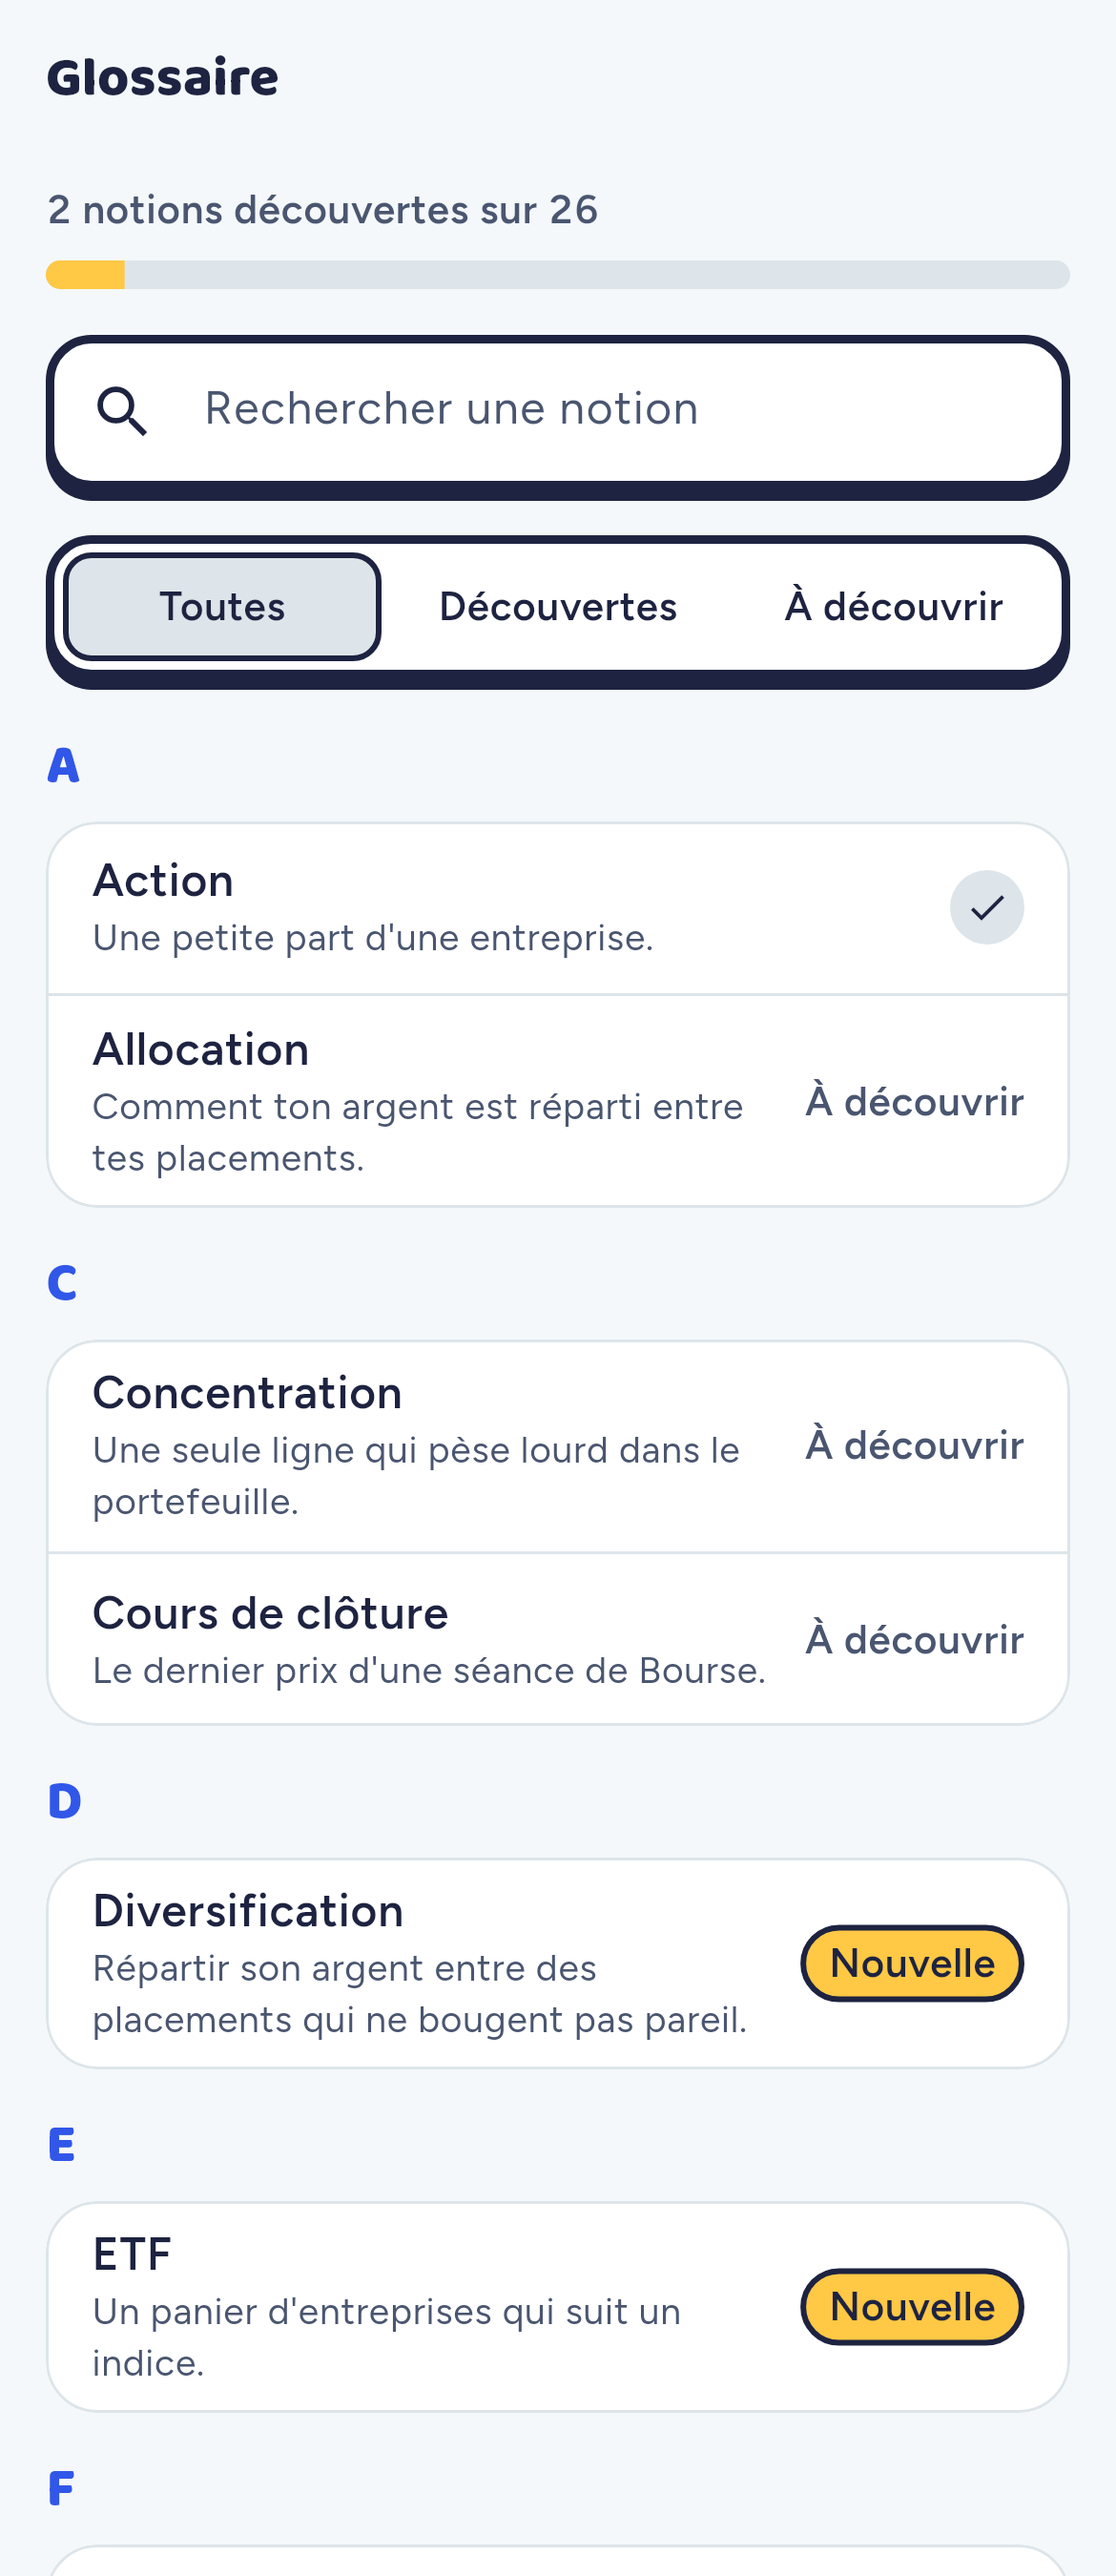
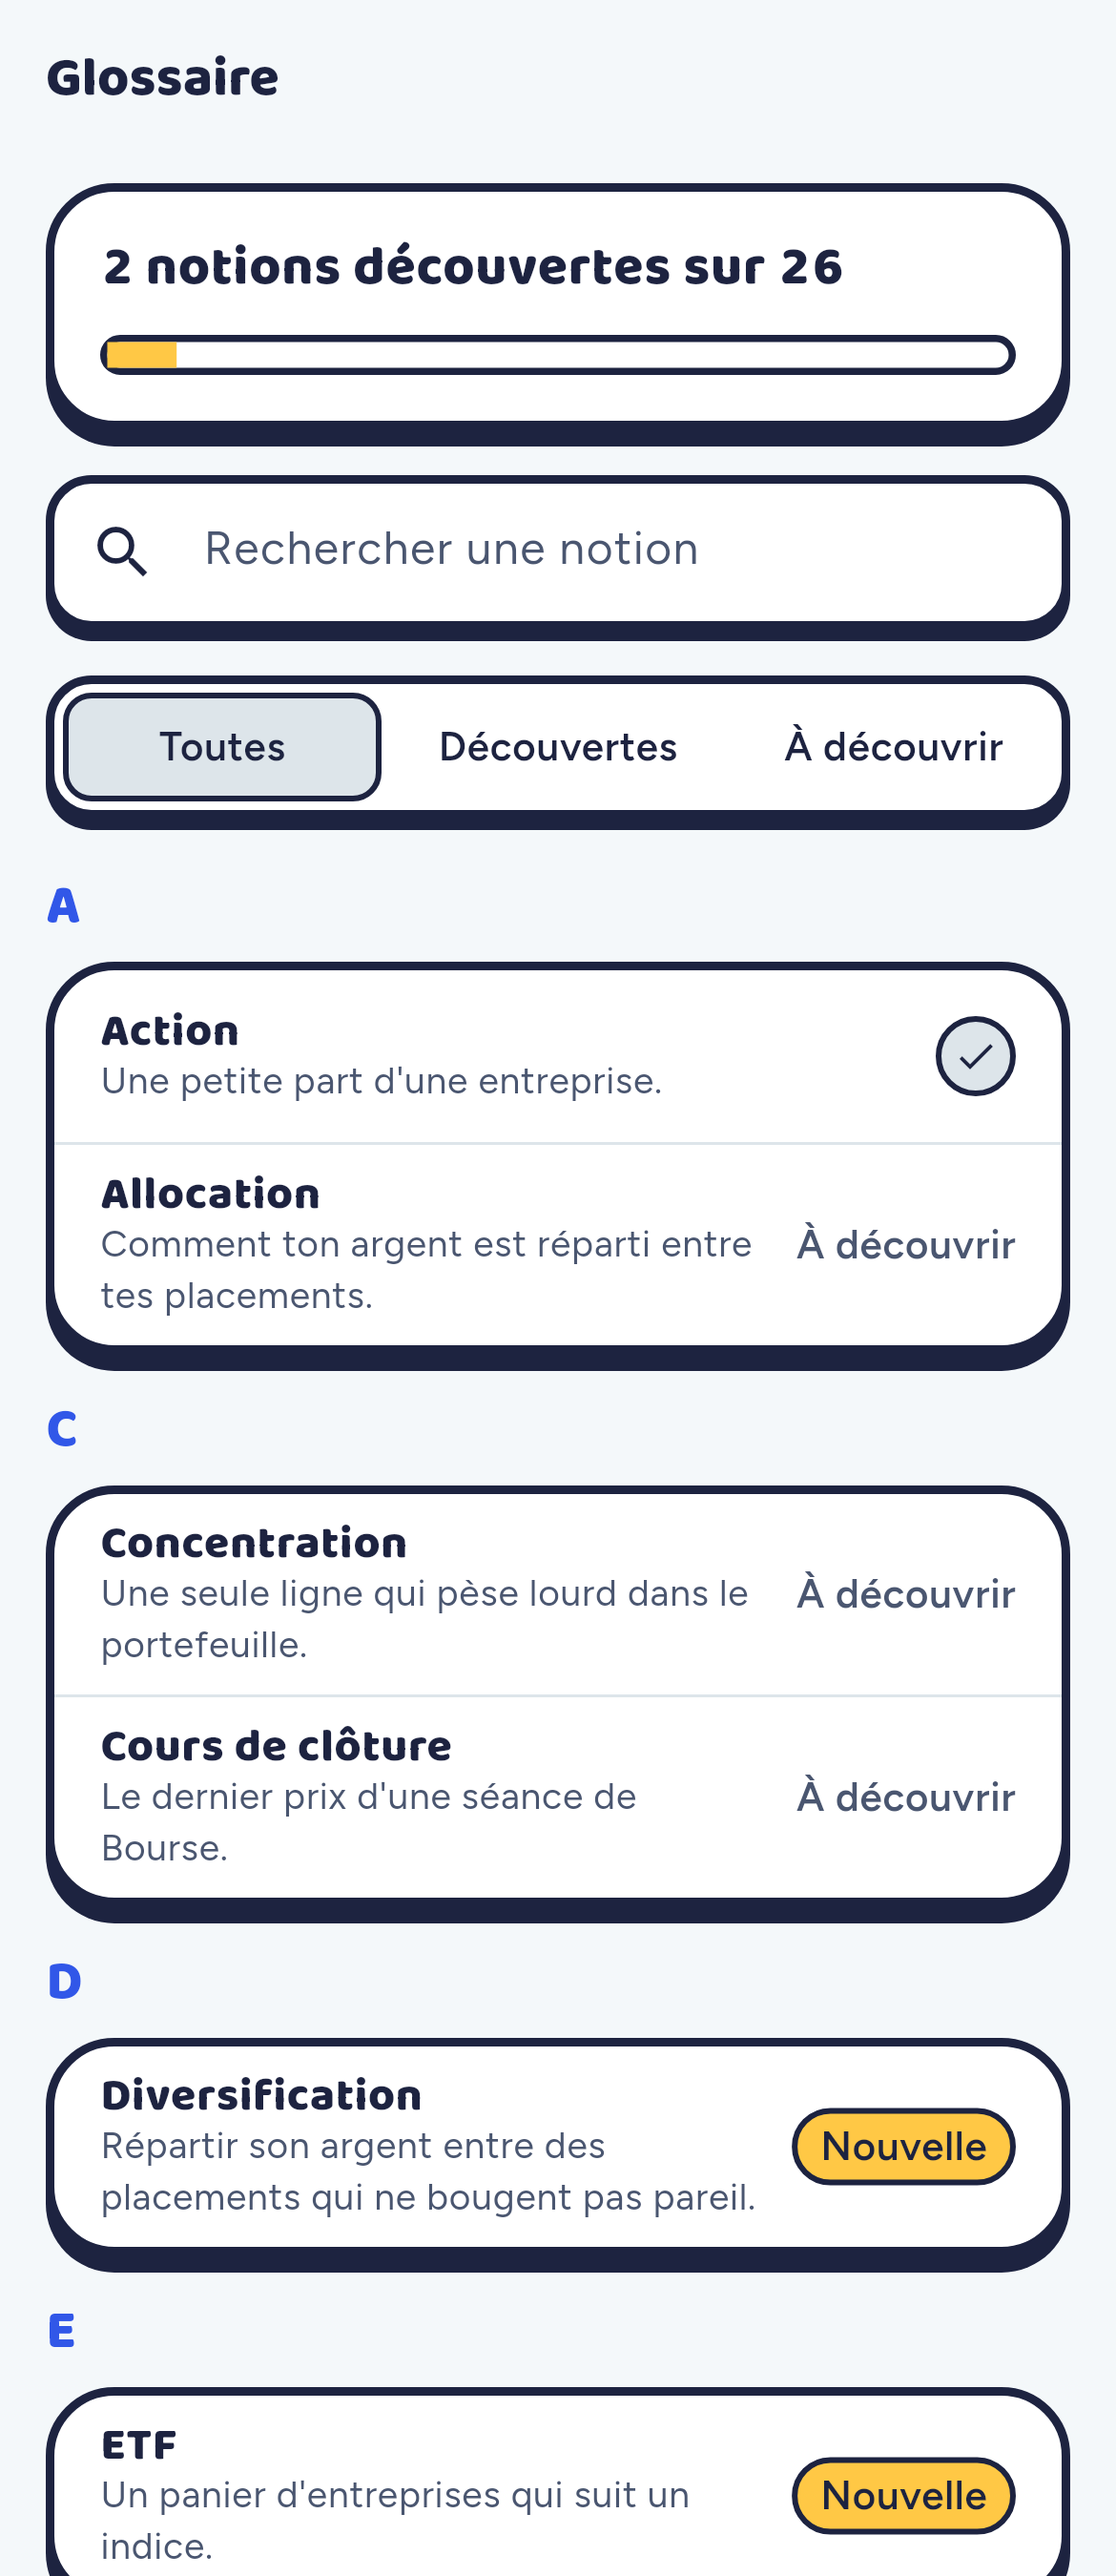
M11-2: The Glossary is a world screen (#6)

diff --git a/app/lib/presentation/features/glossary/glossary_screen.dart b/app/lib/presentation/features/glossary/glossary_screen.dart
@@ -13,8 +13,9 @@ import 'term_sheet.dart';
 
 /// The glossary tab (BRIEF §4.4, artboard Glossary-A): how many notions
 /// were discovered, search, « Toutes / Découvertes / À découvrir », the
-/// terms by letter in flat cards with where each stands; a term opens its
-/// sheet. One scroll, so the list keeps the room on a small phone.
+/// terms by letter with where each stands; a term opens its sheet. A
+/// collection of notions, not money, so a world screen: chunky cards (§10.1,
+/// M11-2). One scroll, so the list keeps the room on a small phone.
 class GlossaryScreen extends ConsumerWidget {
   const GlossaryScreen({super.key});
 
@@ -87,16 +88,25 @@ class GlossaryScreen extends ConsumerWidget {
                     ),
                   ),
                 ),
-                Card(
-                  clipBehavior: Clip.antiAlias,
-                  child: Column(
-                    crossAxisAlignment: CrossAxisAlignment.stretch,
-                    children: [
-                      for (final (i, row) in rows.indexed) ...[
-                        if (i > 0) const Divider(height: 1),
-                        _TermRow(row),
-                      ],
-                    ],
+                ChunkyCard(
+                  padding: EdgeInsets.zero,
+                  // The rows' ink stays inside the card's rounded border.
+                  child: ClipRRect(
+                    borderRadius: BorderRadius.circular(
+                      AppShape.chunkyCardRadius - AppShape.chunkyBorder,
+                    ),
+                    child: Material(
+                      type: MaterialType.transparency,
+                      child: Column(
+                        crossAxisAlignment: CrossAxisAlignment.stretch,
+                        children: [
+                          for (final (i, row) in rows.indexed) ...[
+                            if (i > 0) const Divider(height: 1),
+                            _TermRow(row),
+                          ],
+                        ],
+                      ),
+                    ),
                   ),
                 ),
               ],
@@ -118,34 +128,45 @@ class GlossaryScreen extends ConsumerWidget {
   }
 }
 
-/// « n notions découvertes sur m » over a bar in the levels' yellow.
+/// « n notions découvertes sur m » in a chunky card, over a bar in the
+/// levels' yellow outlined in ink, like a lesson path's.
 class _Discovered extends StatelessWidget {
   const _Discovered({required this.discovered, required this.total});
   final int discovered;
   final int total;
 
   @override
-  Widget build(BuildContext context) => Column(
-    crossAxisAlignment: CrossAxisAlignment.stretch,
-    children: [
-      Text(
-        AppLocalizations.of(context).glossary_progress(discovered, total),
-        style: AppText.label.copyWith(color: AppColors.muted),
-      ),
-      const SizedBox(height: AppSpace.x2),
-      // The line above says it.
-      ExcludeSemantics(
-        child: ClipRRect(
-          borderRadius: BorderRadius.circular(AppSpace.x2),
-          child: LinearProgressIndicator(
-            value: discovered / total,
-            minHeight: 10,
-            color: AppColors.progress,
-            backgroundColor: AppColors.line,
+  Widget build(BuildContext context) => ChunkyCard(
+    child: Column(
+      crossAxisAlignment: CrossAxisAlignment.stretch,
+      children: [
+        Text(
+          AppLocalizations.of(context).glossary_progress(discovered, total),
+          style: AppText.titleSmall,
+        ),
+        const SizedBox(height: AppSpace.x3),
+        // The line above says it.
+        ExcludeSemantics(
+          child: Container(
+            height: 14,
+            clipBehavior: Clip.antiAlias,
+            decoration: BoxDecoration(
+              color: AppColors.surface,
+              borderRadius: BorderRadius.circular(7),
+              border: Border.all(
+                color: AppColors.ink,
+                width: AppShape.chunkySmallBorder,
+              ),
+            ),
+            child: FractionallySizedBox(
+              alignment: Alignment.centerLeft,
+              widthFactor: discovered / total,
+              child: const ColoredBox(color: AppColors.progress),
+            ),
           ),
         ),
-      ),
-    ],
+      ],
+    ),
   );
 }
 
@@ -184,7 +205,7 @@ class _TermRow extends StatelessWidget {
                   child: Column(
                     crossAxisAlignment: CrossAxisAlignment.start,
                     children: [
-                      Text(title, style: AppText.bodyStrong),
+                      Text(title, style: AppText.titleXSmall),
                       Text(
                         row.term.short.of(language),
                         style: AppText.caption.copyWith(color: AppColors.muted),
@@ -195,11 +216,12 @@ class _TermRow extends StatelessWidget {
                 const SizedBox(width: AppSpace.x3),
                 switch (row.status) {
                   TermStatus.discovered => Container(
-                    width: 26,
-                    height: 26,
-                    decoration: const BoxDecoration(
+                    width: 28,
+                    height: 28,
+                    decoration: BoxDecoration(
                       color: AppColors.line,
                       shape: BoxShape.circle,
+                      border: Border.all(color: AppColors.ink, width: 2),
                     ),
                     child: const Icon(
                       Icons.check,

diff --git a/app/test/presentation/features/glossary_screen_test.dart b/app/test/presentation/features/glossary_screen_test.dart
@@ -90,19 +90,19 @@ void main() {
     expect(find.text('1 notion découverte sur 6'), findsOneWidget);
     expect(
       tester
-          .widget<LinearProgressIndicator>(find.byType(LinearProgressIndicator))
-          .value,
+          .widget<FractionallySizedBox>(find.byType(FractionallySizedBox))
+          .widthFactor,
       1 / 6,
     );
     for (final letter in ['D', 'E', 'I', 'R', 'V']) {
       expect(find.text(letter), findsOneWidget, reason: letter);
     }
-    // One flat card per letter, a line between its rows: « Écart » and
-    // « ETF » share E's.
-    expect(find.byType(Card), findsNWidgets(5));
+    // The progress, then one chunky card per letter, a line between its
+    // rows: « Écart » and « ETF » share E's.
+    expect(find.byType(ChunkyCard), findsNWidgets(1 + 5));
     final e = find.ancestor(
       of: find.text('Écart'),
-      matching: find.byType(Card),
+      matching: find.byType(ChunkyCard),
     );
     expect(find.descendant(of: e, matching: find.text('ETF')), findsOneWidget);
     expect(
@@ -118,7 +118,7 @@ void main() {
     // risque de change, volatilité.
     expect(
       find.descendant(
-        of: find.byType(Card),
+        of: find.byType(ChunkyCard),
         matching: find.text('À découvrir'),
       ),
       findsNWidgets(4),
@@ -182,6 +182,9 @@ void main() {
 
   testWidgets('a live example on real data', (tester) async {
     await show(tester, const GlossaryScreen());
+    // The last letter, below the fold.
+    await tester.ensureVisible(find.text('Volatilité'));
+    await tester.pumpAndSettle();
     await tester.tap(find.text('Volatilité'));
     await tester.pumpAndSettle();
     expect(find.text('Sur données réelles'), findsOneWidget);

diff --git a/docs/BRIEF.md b/docs/BRIEF.md
@@ -326,6 +326,10 @@ Rules:
   chunky ✕; the one-line definition (`short`) first, the 2–3 paragraphs (`body`) behind « En savoir plus »,
   so the live example and « Tester en 30 secondes » stay within a short scroll; the live example in a chunky
   card, « Sur données réelles » over a Baloo headline; related terms as pills.
+- A world screen (decided 2026-10-28 by the user, M11-2, the canvas « The world on every tab »): the glossary is
+  a collection of notions, not money. « n notions découvertes sur m » in Baloo in a chunky card, its bar in
+  `progress` outlined in ink; each letter's terms in one chunky card, a `line` between rows, each name in Baloo;
+  the ✓ disc outlined in ink. Search and filters are the chunky controls (§10.1).
 - Live examples show their notion (decided 2026-10-24 by the user, M9-28): volatility draws each day's change
   (`dailyChanges`) as thin bars, the asset above the ETF Monde on one scale (an ordinary day's move, the rarer
   bigger ones reaching the row's edge); the worst drop marks its peak and trough on the year's line. Performance
@@ -1103,7 +1107,7 @@ data, no key).
 ### 10.1 Two component families
 
 - **World / companion ("chunky")**: map, island path, node player, wizard, companion cards, missions,
-  celebrations. White surfaces, 3 px ink border, offset shadow `0 4–6 px 0 ink`, radius 16–24, Baloo 2 titles.
+  celebrations, the glossary (M11-2). White surfaces, 3 px ink border, offset shadow `0 4–6 px 0 ink`, radius 16–24, Baloo 2 titles.
 - **Money ("flat")**: wallet, asset page, order sheet, explorer, settings, charts. White cards, 1 px line
   border, no offset shadow, radius 14–18. Numbers in Figtree with tabular figures.
 
